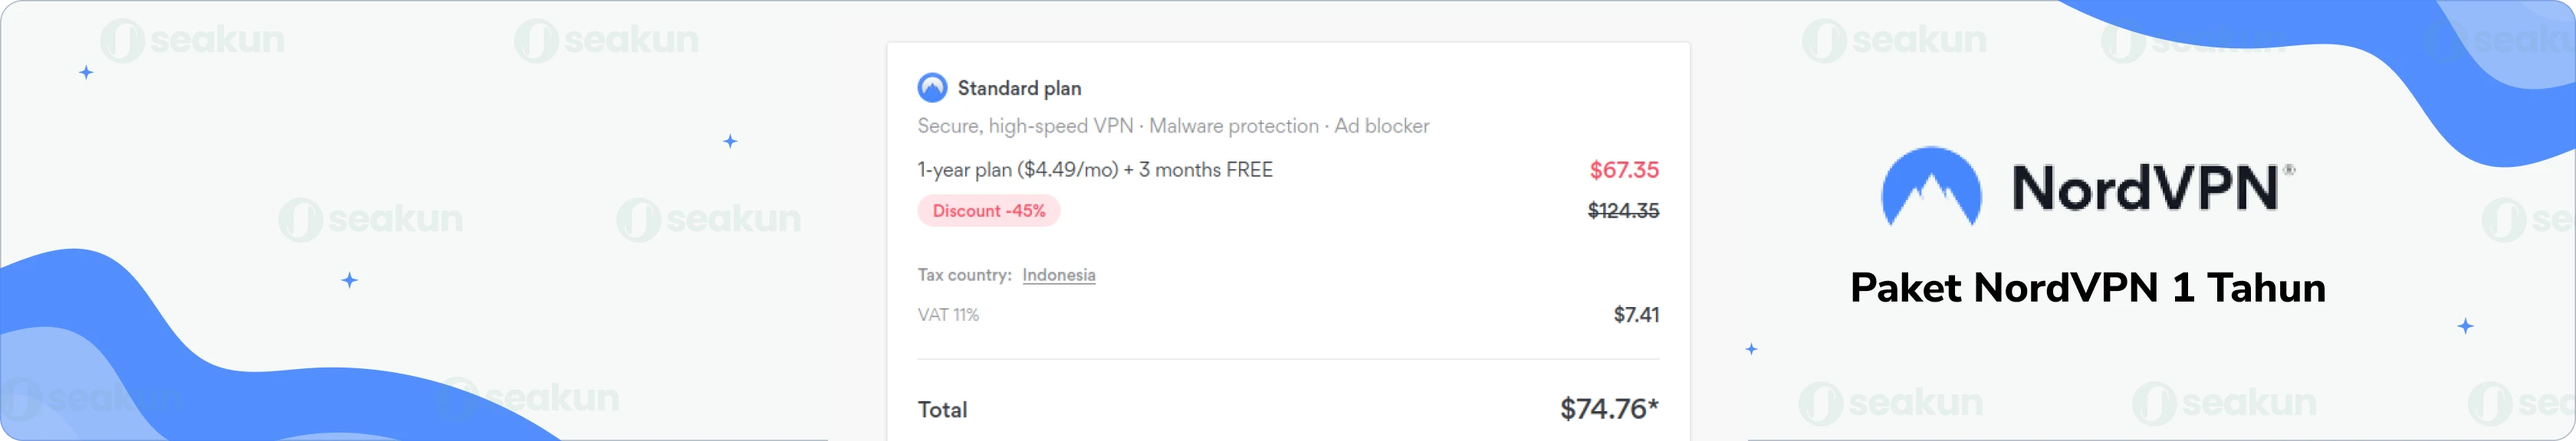
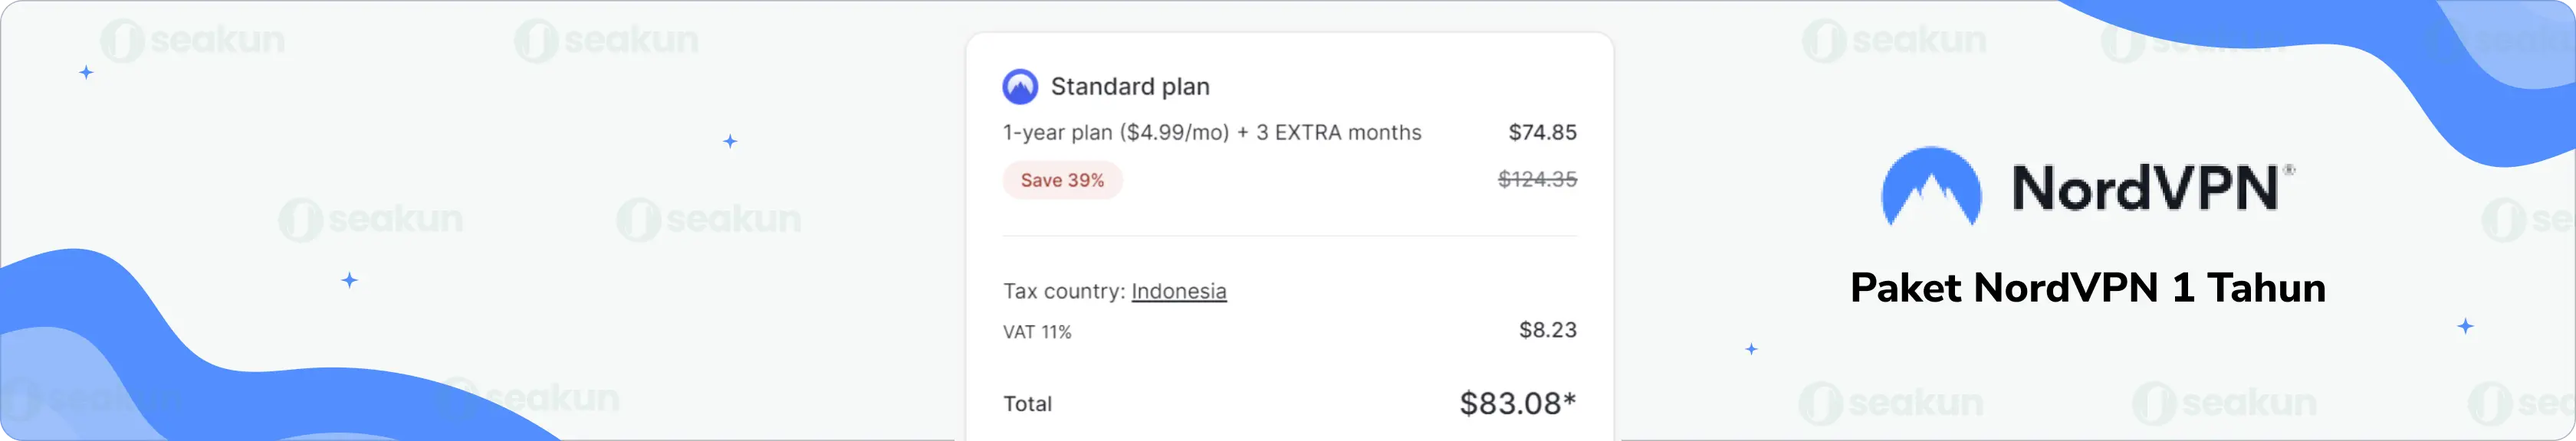
update price nord vpn

diff --git a/constants/price-scheme.js b/constants/price-scheme.js
@@ -1114,11 +1114,11 @@ export const providerList = [
       },
       {
         title: 'Harga Provider',
-        value: '$11.99',
+        value: '$13.49',
       },
       {
         title: 'Harga + pajak 11%',
-        value: '$13.31 = Rp214.273',
+        value: '$14.97 = Rp244.011',
       },
       {
         title: 'Jumlah member Per grup',
@@ -1126,15 +1126,15 @@ export const providerList = [
       },
       {
         title: 'Harga Patungan',
-        value: 'Rp214.273 ÷ 6 = Rp35.712',
+        value: 'Rp244.011 ÷ 6 = Rp40.669',
       },
       {
         title: 'Biaya Admin Seakun',
-        value: 'Rp6.288',
+        value: 'Rp6.332',
       },
       {
         title: 'Harga Paket Bulanan',
-        value: 'Rp42.000',
+        value: 'Rp47.000',
         is_total: true,
       },
     ],
@@ -1166,11 +1166,11 @@ export const providerList = [
       },
       {
         title: 'Harga Provider',
-        value: '$67.35',
+        value: '$74.85',
       },
       {
         title: 'Harga + pajak 11%',
-        value: '$74.76 = Rp1.203.636',
+        value: '$83.08 = Rp1.354.204',
       },
       {
         title: 'Jumlah member Per grup',
@@ -1178,15 +1178,15 @@ export const providerList = [
       },
       {
         title: 'Harga Patungan',
-        value: 'Rp1.203.636 ÷ 6 = Rp200.606',
+        value: 'Rp1.354.204 ÷ 6 = Rp225.701',
       },
       {
         title: 'Biaya Admin Seakun',
-        value: 'Rp89.394',
+        value: 'Rp84.299',
       },
       {
         title: 'Harga Paket 1 Tahun',
-        value: 'Rp290.000',
+        value: 'Rp310.000',
         is_total: true,
       },
     ],

diff --git a/constants/price-change.js b/constants/price-change.js
@@ -1,9 +1,9 @@
 export const priceChangeList = [
-  {
-    name: 'WeTV',
-    slug: 'wetv',
-    message: 'Provider WeTv memperbarui harga berlangganannya',
-  },
+  // {
+  //   name: 'WeTV',
+  //   slug: 'wetv',
+  //   message: 'Provider WeTv memperbarui harga berlangganannya',
+  // },
   // {
   //   name: 'HBO Go',
   //   slug: 'hbo-go',
@@ -19,11 +19,11 @@ export const priceChangeList = [
   //   slug: 'disney-hotstar',
   //   message: 'Provider Disney+ Hotstar memperbarui harga berlangganannya',
   // },
-  // {
-  //   name: 'Nord VPN',
-  //   slug: 'nord-vpn',
-  //   message: 'perubahan kurs Rupiah terhadap Dollar',
-  // },
+  {
+    name: 'Nord VPN',
+    slug: 'nord-vpn',
+    message: 'Provider Nord VPN memperbarui harga berlangganannya',
+  },
   // {
   //   name: 'Setapp',
   //   slug: 'setapp',
